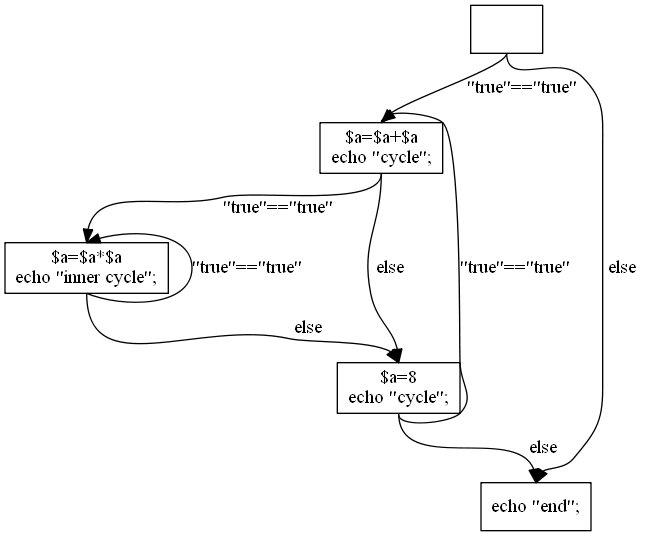
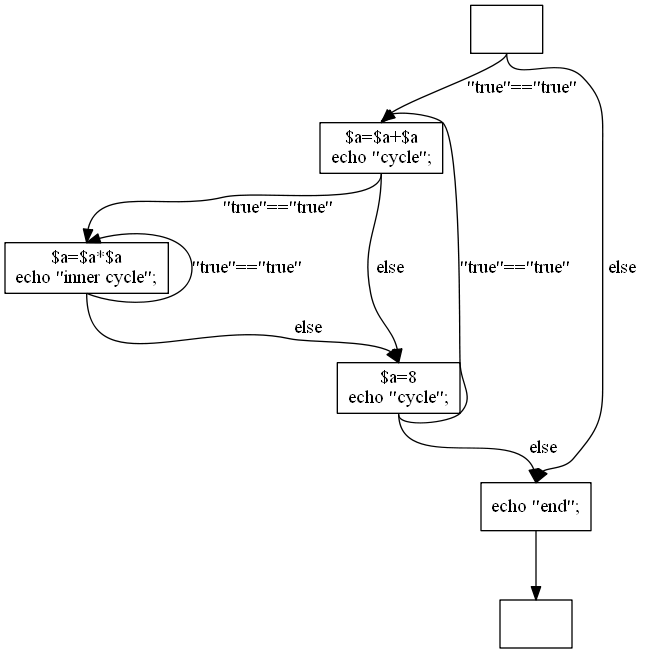
implementacia vynimiek v cfg WEV-4
git-svn-id: svn+ssh://aiya.ms.mff.cuni.cz/var/svn/weverca/trunk@71 67bba403-d36b-46c0-a350-761a85a4c57d

diff --git a/VSProjects/Realisation/Weverca.ControlFlowGraph/CFGVisitor.cs b/VSProjects/Realisation/Weverca.ControlFlowGraph/CFGVisitor.cs
@@ -118,10 +118,14 @@ namespace Weverca.ControlFlowGraph
         /// <summary>
         /// Stack of loops, for purposes of breaking cycles and switch
         /// </summary>
-        LinkedList<LoopData> loopData = new LinkedList<LoopData>();
-
-        LinkedList<List<BasicBlock>> throwBlocks = new LinkedList<List<BasicBlock>>();
-       
+        Stack<LoopData> loopData = new Stack<LoopData>();
+        /// <summary>
+        /// Stack of block which ends by throw
+        /// </summary>
+        Stack<List<BasicBlock>> throwBlocks = new Stack<List<BasicBlock>>();
+        
+        
+        int numberOfNestedTrys = 0;
 
         private ClassDeclaration actualClass = null;
         private LabelDataDictionary labelDictionary = new LabelDataDictionary();
@@ -133,6 +137,8 @@ namespace Weverca.ControlFlowGraph
             this.graph = graph;
             currentBasicBlock = new BasicBlock();
             graph.start = currentBasicBlock;
+            functionSinkStack.AddFirst(new BasicBlock());
+            throwBlocks.Push(new List<BasicBlock>());
         }
 
         public override void VisitElement(LangElement element)
@@ -146,7 +152,12 @@ namespace Weverca.ControlFlowGraph
             {
                 statement.VisitMe(this);
             }
-        }
+            DirectEdge.MakeNewAndConnect(currentBasicBlock, functionSinkStack.First());
+            foreach (var block in throwBlocks.ElementAt(0)) {
+                block.Statements.RemoveLast();
+                DirectEdge.MakeNewAndConnect(block, functionSinkStack.First());
+            }
+       }
 
         public override void VisitLabelStmt(LabelStmt x)
         {
@@ -329,9 +340,9 @@ namespace Weverca.ControlFlowGraph
             //Loop body
             VisitExpressionList(x.InitExList);
             currentBasicBlock = forBody;
-            loopData.AddLast(new LoopData(forIncrement, forEnd));
+            loopData.Push(new LoopData(forIncrement, forEnd));
             x.Body.VisitMe(this);
-            loopData.RemoveLast();
+            loopData.Pop();
             BasicBlock forBodyEnd = currentBasicBlock;
             currentBasicBlock = forIncrement;
             DirectEdge.MakeNewAndConnect(forBodyEnd, currentBasicBlock);
@@ -394,7 +405,7 @@ namespace Weverca.ControlFlowGraph
             currentBasicBlock = new BasicBlock();
             //in case of swich statement, continue and break means the same so we make the egde allways to the block under the switch
             BasicBlock underLoop = new BasicBlock();
-            loopData.AddLast(new LoopData(underLoop, underLoop));
+            loopData.Push(new LoopData(underLoop, underLoop));
             foreach (var switchItem in x.SwitchItems) {
 
                 Expression right = null;
@@ -423,7 +434,7 @@ namespace Weverca.ControlFlowGraph
                 DirectEdge.MakeNewAndConnect(last, currentBasicBlock);
    
             }
-            loopData.RemoveLast();
+            loopData.Pop();
             DirectEdge.MakeNewAndConnect(currentBasicBlock, underLoop);
             currentBasicBlock = underLoop;
             if (containsDefault == false)
@@ -514,9 +525,9 @@ namespace Weverca.ControlFlowGraph
             }
             currentBasicBlock = startLoop;
             BasicBlock underLoop = new BasicBlock();
-            loopData.AddLast(new LoopData(startLoop, underLoop));
+            loopData.Push(new LoopData(startLoop, underLoop));
             x.Body.VisitMe(this);
-            loopData.RemoveLast();
+            loopData.Pop();
             
             BasicBlock endLoop = currentBasicBlock;
           
@@ -597,36 +608,52 @@ namespace Weverca.ControlFlowGraph
         #endregion
 
         #region handling Exceptions
-        //not finished yet
+
+
         public override void VisitTryStmt(TryStmt x)
         {
             BasicBlock followingBlock = new BasicBlock();
-            throwBlocks.AddLast(new List<BasicBlock>());
+         
+            numberOfNestedTrys++;
+            throwBlocks.Push(new List<BasicBlock>());
             VisitStatementList(x.Statements);
             DirectEdge.MakeNewAndConnect(currentBasicBlock, followingBlock);
-         
+            
             
             foreach(var catchItem in x.Catches){
 
-                BasicBlock catchBlock = new BasicBlock(); 
-                foreach (var throwBlock in throwBlocks.Last())
+                BasicBlock catchBlock = new BasicBlock();
+
+                foreach (var throwBlock in throwBlocks.Peek())
                 {
-                    DirectEdge.MakeNewAndConnect(throwBlock, catchBlock);
+                    ThrowStmt throwStatement = (ThrowStmt)throwBlock.Statements.Last();
+                    //throwBlock.Statements.RemoveLast();
+                    List<ActualParam> parameters = new List<ActualParam>();
+                    parameters.Add(new ActualParam(Position.Invalid, throwStatement.Expression, false));
+                    parameters.Add(new ActualParam(Position.Invalid, new StringLiteral(Position.Invalid, catchItem.ClassName.QualifiedName.ToString()), false));
+                    ConditionalEdge.MakeNewAndConnect(throwBlock, catchBlock, new DirectFcnCall(Position.Invalid, new QualifiedName(new Name("is_subclass_of")), null, Position.Invalid, parameters, new List<TypeRef>()));
                 }
+               
                 
                 currentBasicBlock=catchBlock;
                 VisitStatementList(catchItem.Statements);
                 DirectEdge.MakeNewAndConnect(currentBasicBlock,followingBlock);
             }
-            throwBlocks.RemoveLast();
+            
+            
+            numberOfNestedTrys--;
+            throwBlocks.Pop();
             currentBasicBlock=followingBlock;
             
         }
-        //not finished yet
+
         public override void VisitThrowStmt(ThrowStmt x)
         {
             currentBasicBlock.AddElement(x);
-            throwBlocks.Last().Add(currentBasicBlock);
+            foreach(var item in throwBlocks)
+            {
+                item.Add(currentBasicBlock);
+            }
             currentBasicBlock=new BasicBlock();
         }
 

diff --git a/VSProjects/Realisation/Weverca.ControlFlowGraph/ControlFlowGraph.cs b/VSProjects/Realisation/Weverca.ControlFlowGraph/ControlFlowGraph.cs
@@ -145,6 +145,7 @@ namespace Weverca.ControlFlowGraph
                 {
                     int index=nodes.IndexOf(edge.To);
                     string label = "" ;
+                    //v pripdae ze som tam umelo pridal podmienku v cfg a tato podmienka nebola v kode
                     if (!edge.Condition.Position.IsValid)
                     {
                         if (edge.Condition.GetType() == typeof(BoolLiteral))
@@ -185,6 +186,24 @@ namespace Weverca.ControlFlowGraph
                                 label += "else";
                                 //label = globalCode.SourceUnit.GetSourceCode(edge.Condition.Position);
                             }
+                        }
+                        if (edge.Condition.GetType() == typeof(DirectFcnCall))
+                        { 
+                            DirectFcnCall functionCall=(DirectFcnCall)edge.Condition;
+
+                            label += functionCall.QualifiedName+"(";
+                            foreach(var parameter in functionCall.CallSignature.Parameters){
+                                if (parameter.Expression.GetType()==typeof(StringLiteral))
+                                {
+                                    StringLiteral literal = (StringLiteral)parameter.Expression;
+                                    label += "\""+literal.Value+"\""+",";
+                                }
+                                else
+                                {
+                                label += globalCode.SourceUnit.GetSourceCode(parameter.Expression.Position)+",";
+                                }
+                            }
+                            label += ")";
                         }
                     }
                     else

diff --git a/PHP_sources/exception_test.php b/PHP_sources/exception_test.php
@@ -3,7 +3,8 @@ $a=4;
 
 try{
 	if($a==4){
-		throw new Exception("A is equal 4 and thas an error");
+		echo "exception is going to be thrown";
+		throw new Exception("");
 		echo "unreachable code";
 	}
 	echo "no error here";
@@ -12,5 +13,16 @@ catch(Exception $e){
 	echo "exception catched";
 	echo "a";
 }
-
+catch(Exception1 $e){
+	echo "Exception1 catched";
+	echo "a";
+}
+catch(Exception2 $e){
+	echo "Exception2 catched";
+	echo "a";
+}
+catch(Exception3 $e){
+	echo "Exception3 catched";
+	echo "a";
+}
 ?>
